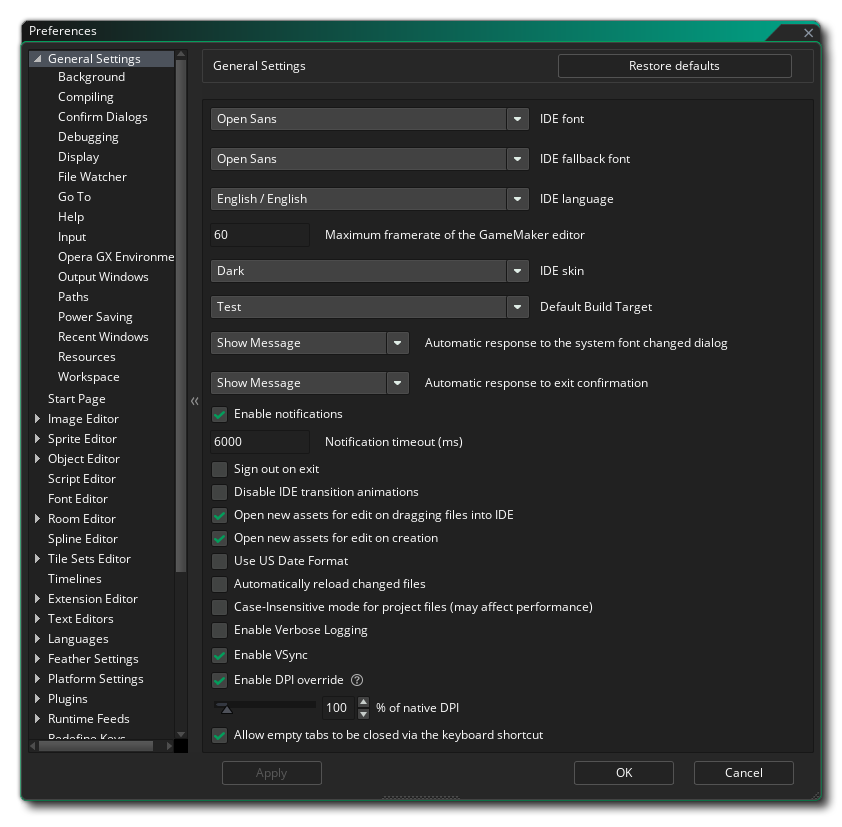
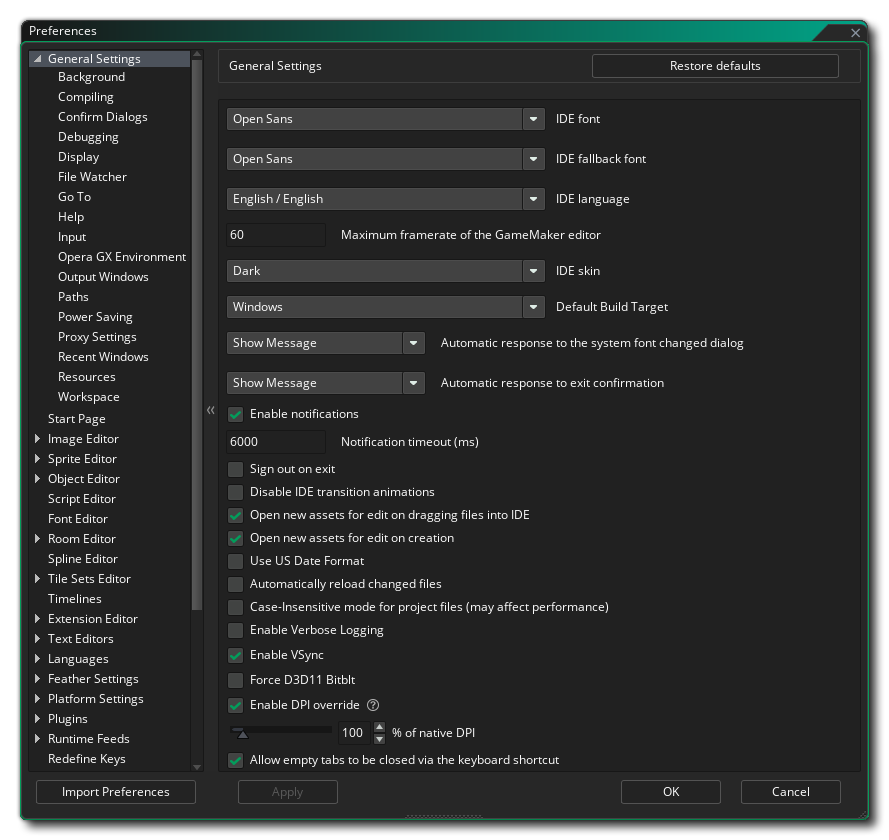
docs(general): added documentation for "Force D3D11 BitBlt" general preference YoYoGames/GameMaker-Bugs#14301
* Updated the screenshot on the page and added an item and description for the new preference
* Small typo fix in the "Enable DPI Override" description

Changed region(s): [[0.0, 0.0, 0.9881, 0.9976], [0.7411, 0.0605, 0.8646, 0.0907]]

diff --git a/Manual/contents/Setting_Up_And_Version_Information/IDE_Preferences/General_Preferences.htm b/Manual/contents/Setting_Up_And_Version_Information/IDE_Preferences/General_Preferences.htm
@@ -41,7 +41,8 @@
     <li><strong>Case-Insensitive mode for project files (may affect performance)</strong>: Intended to be used to avoid issues with filename case sensitivity on non-Windows devices (macOS and Linux). Such issues can happen when transferring projects from Windows to non-Windows systems, using Git with <a href="https://git-scm.com/docs/git-config#Documentation/git-config.txt-coreignoreCase">ignore case</a> enabled (which you should try disabling first) and/or renaming files only to change the case. This is disabled by default as it&#39;s a performance overhead and should not be required outside of the aforementioned cases.</li>
     <li><strong>Enable Verbose Logging</strong>: This option enables verbose logging of network calls.</li>
     <li><strong>Enable VSync</strong>: This option enables or disables vertical synchronisation within the IDE. VSync is enabled by default, though you can disable it using this setting if you&#39;re experiencing screen flickering with the IDE open. Note that any change to this setting requires a restart of the IDE.</li>
-    <li><strong>Enable DPI Override</strong>: This option lets you override the default DPI setting with your own. You must first enable the option and then set the <strong>Percentage of the native DPI</strong> (default value 100%), and once changed you will be prompted to keep or revert the change, where no input will result in the change being reverted. Note that the DPI has a minimum percentage of 50% and a maximum of 500%, and if you you mouse over the information icon you can see the recommended maximum setting for the display being used:<br />
+    <li><strong>Force D3D11 BitBlt</strong>: This option, when enabled, forces the IDE to use BitBlt for rendering, which can resolve issues with the IDE flickering on G-Sync monitors. This is disabled by default.</li>
+    <li><strong>Enable DPI Override</strong>: This option lets you override the default DPI setting with your own. You must first enable the option and then set the <strong>Percentage of the native DPI</strong> (default value 100%), and once changed you will be prompted to keep or revert the change, where no input will result in the change being reverted. Note that the DPI has a minimum percentage of 50% and a maximum of 500%, and if you mouse over the information icon you can see the recommended maximum setting for the display being used:<br />
       <br />
       <img alt="General DPi Override Recommendation" class="center" src="../../assets/Images/Setup_And_Version/Preferences/General_DPi_Override_Recomendation.png" />Note that if you go above the recommended DPI setting for the monitor, you will be shown a notification that permits you to reset the DPI.
     </li>
@@ -76,7 +77,7 @@
         <div style="float:right">Next: <a href="Start_Screen_Preferences.htm">Start Screen Preferences</a></div>
       </div>
     </div>
-    <h5><span data-keyref="Copyright Notice">© Copyright YoYo Games Ltd. 2025 All Rights Reserved</span></h5>
+    <h5><span data-keyref="Copyright Notice">© Copyright YoYo Games Ltd. 2026 All Rights Reserved</span></h5>
   </div>
   <!-- KEYWORDS
 Preferences - General
